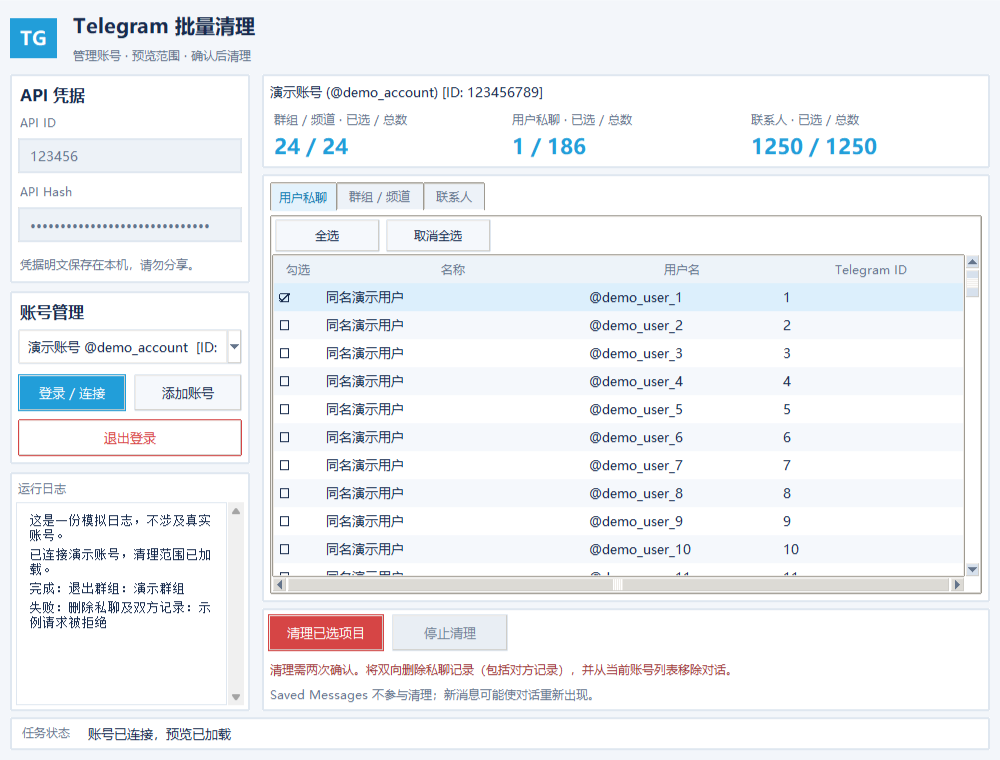
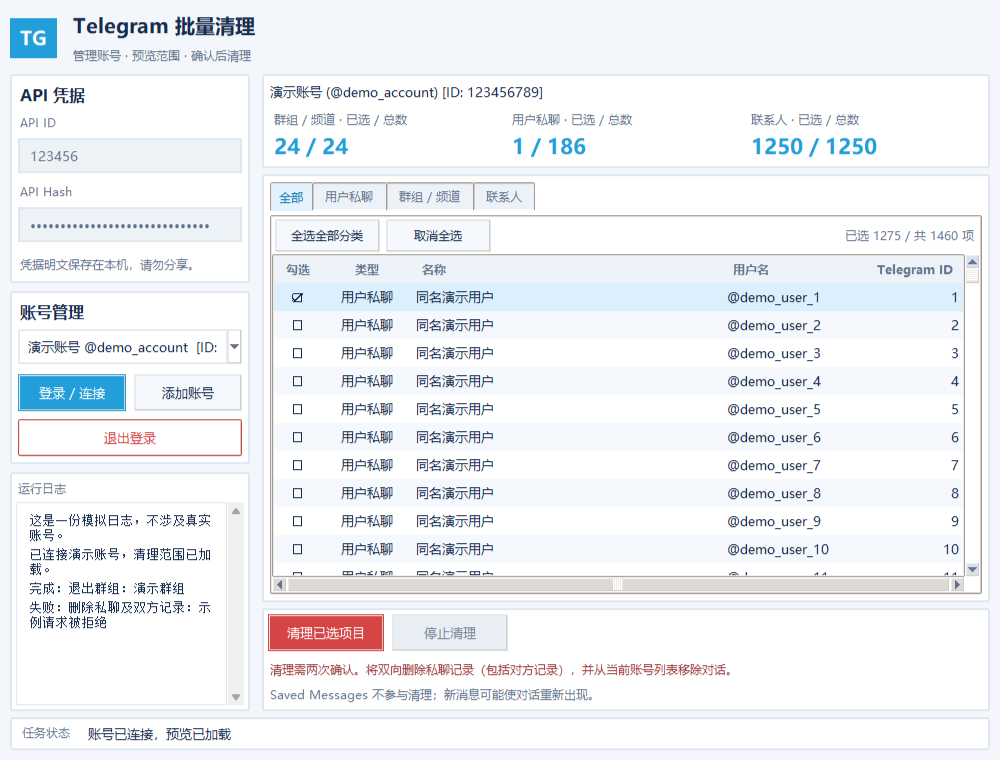
Add unified cleanup tab with synchronized selection

diff --git a/tg_cleanup.py b/tg_cleanup.py
@@ -191,7 +191,7 @@ class CleanupApp:
         style.configure("TNotebook.Tab", background="#EDF2F8", foreground=c["muted"], padding=(10, 3), font=self.fonts["small"], borderwidth=0)
         style.map("TNotebook.Tab", background=[("selected", "#E3F2FC"), ("active", "#EAF0F7")], foreground=[("selected", "#1379AD"), ("active", c["text"])])
         style.configure("Treeview", background=c["surface"], fieldbackground=c["surface"], foreground=c["text"], font=self.fonts["body"], rowheight=int(28 * self.ui_scale), borderwidth=0)
-        style.configure("Treeview.Heading", background="#EDF3F9", foreground=c["muted"], font=self.fonts["small"], padding=(8, 3), relief="flat")
+        style.configure("Treeview.Heading", background="#EDF3F9", foreground=c["muted"], font=(*self.fonts["small"], "bold"), padding=(8, 3), relief="flat")
         style.map("Treeview", background=[("selected", "#DCEFFC")], foreground=[("disabled", c["muted"]), ("selected", c["text"])])
         style.map("Treeview.Heading", background=[("active", "#E3EDF7")])
         style.configure("Horizontal.TScrollbar", background="#D7E1ED", troughcolor=c["surface"], bordercolor=c["surface"], arrowcolor=c["muted"])
@@ -383,25 +383,34 @@ class CleanupApp:
         selection.grid(row=1, column=0, sticky="nsew", pady=(0, 6))
         selection.columnconfigure(0, weight=1)
         selection.rowconfigure(0, weight=1)
-        notebook = ttk.Notebook(selection)
+        self.selection_notebook = notebook = ttk.Notebook(selection)
         notebook.grid(row=0, column=0, sticky="nsew")
         self.selection_trees = {}
         self.selection_buttons = []
-        for category, caption in (("private", "用户私聊"), ("groups", "群组 / 频道"), ("contacts", "联系人")):
+        self.selection_counts = {}
+        for category, caption in (("all", "全部"), ("private", "用户私聊"), ("groups", "群组 / 频道"), ("contacts", "联系人")):
             page = ttk.Frame(notebook, style="Surface.TFrame")
             notebook.add(page, text=caption)
             page.columnconfigure(0, weight=1)
             page.rowconfigure(1, weight=1)
             toolbar = ttk.Frame(page, style="Surface.TFrame")
             toolbar.grid(row=0, column=0, columnspan=2, sticky="ew")
-            for label, checked in (("全选", True), ("取消全选", False)):
+            for label, checked in (("全选全部分类" if category == "all" else "全选本分类", True), ("取消全选", False)):
                 button = ttk.Button(toolbar, text=label, style="Secondary.TButton", command=lambda c=category, v=checked: self._select_category(c, v))
                 button.pack(side="left", padx=3, pady=2)
                 self.selection_buttons.append(button)
-            tree = ttk.Treeview(page, columns=("checked", "name", "username", "id"), show="headings", height=1, selectmode="browse")
-            for column, title, width in (("checked", "勾选", 48), ("name", "名称", 190), ("username", "用户名", 120), ("id", "Telegram ID", 110)):
-                tree.heading(column, text=title)
-                tree.column(column, width=width, minwidth=width if column == "checked" else 60, stretch=column != "checked")
+            count = tk.StringVar(value="已选 0 / 共 0 项")
+            self.selection_counts[category] = count
+            ttk.Label(toolbar, textvariable=count, style="Muted.TLabel").pack(side="right", padx=4)
+            columns = ("checked", "type", "name", "username", "id") if category == "all" else ("checked", "name", "username", "id")
+            tree = ttk.Treeview(page, columns=columns, show="headings", height=1, selectmode="browse")
+            definitions = (("checked", "勾选", 48), ("type", "类型", 90), ("name", "名称", 190), ("username", "用户名", 120), ("id", "Telegram ID", 120))
+            for column, title, width in definitions:
+                if column not in columns:
+                    continue
+                anchor = "center" if column in ("checked", "type") else "e" if column == "id" else "w"
+                tree.heading(column, text=title, anchor=anchor)
+                tree.column(column, width=width, minwidth=width, stretch=column == "name", anchor=anchor)
             tree.tag_configure("even", background="#FFFFFF")
             tree.tag_configure("odd", background="#F5F8FC")
             tree.grid(row=1, column=0, sticky="nsew")
@@ -750,6 +759,8 @@ class CleanupApp:
     def _reset_selection(self):
         self.selected_items = set()
         self.selection_rows = {}
+        for variable in getattr(self, "selection_counts", {}).values():
+            variable.set("已选 0 / 共 0 项")
         for tree in getattr(self, "selection_trees", {}).values():
             tree.delete(*tree.get_children())
 
@@ -768,7 +779,12 @@ class CleanupApp:
                 self.selection_rows[key] = item
                 name = getattr(entity, "title", None) or " ".join(v for v in (getattr(entity, "first_name", None), getattr(entity, "last_name", None)) if v) or str(entity.id)
                 tree = self.selection_trees[category]
-                tree.insert("", "end", iid=str(peer_id), tags=("odd" if len(tree.get_children()) % 2 else "even",), values=("☐", name, "@" + entity.username if getattr(entity, "username", None) else "—", str(peer_id)))
+                values = ("☐", name, "@" + entity.username if getattr(entity, "username", None) else "—", str(peer_id))
+                tree.insert("", "end", iid=str(peer_id), tags=("odd" if len(tree.get_children()) % 2 else "even",), values=values)
+                all_tree = self.selection_trees.get("all")
+                if all_tree is not None:
+                    kind = {"private": "用户私聊", "groups": "群组/频道", "contacts": "联系人"}[category]
+                    all_tree.insert("", "end", iid=f"{category}:{peer_id}", tags=("odd" if len(all_tree.get_children()) % 2 else "even",), values=(values[0], kind, *values[1:]))
         self._refresh_selection()
 
     def _refresh_selection(self):
@@ -779,7 +795,21 @@ class CleanupApp:
             if tree:
                 for key in keys:
                     tree.set(str(key[1]), "checked", "☑" if key in self.selected_items else "☐")
+        all_tree = self.selection_trees.get("all")
+        if all_tree is not None:
+            for key in self.selection_rows:
+                all_tree.set(f"{key[0]}:{key[1]}", "checked", "☑" if key in self.selected_items else "☐")
+        for category, variable in getattr(self, "selection_counts", {}).items():
+            keys = {key for key in self.selection_rows if category == "all" or key[0] == category}
+            variable.set(f"已选 {len(keys & self.selected_items)} / 共 {len(keys)} 项")
         self._update_execute_state()
+
+    @staticmethod
+    def _selection_row_key(category, row):
+        if category == "all":
+            kind, peer_id = row.split(":", 1)
+            return kind, int(peer_id)
+        return category, int(row)
 
     def _toggle_selection(self, key):
         if not self._selection_available() or key not in self.selection_rows:
@@ -793,7 +823,7 @@ class CleanupApp:
     def _select_category(self, category, checked):
         if not self._selection_available():
             return
-        keys = {key for key in self.selection_rows if key[0] == category}
+        keys = {key for key in self.selection_rows if category == "all" or key[0] == category}
         if checked:
             self.selected_items.update(keys)
         else:
@@ -806,13 +836,13 @@ class CleanupApp:
         if row and tree.identify_region(event.x, event.y) == "cell" and tree.identify_column(event.x) == "#1":
             tree.focus(row)
             tree.selection_set(row)
-            self._toggle_selection((category, int(row)))
+            self._toggle_selection(self._selection_row_key(category, row))
             return "break"
 
     def _selection_space(self, category):
         row = self.selection_trees[category].focus()
         if row:
-            self._toggle_selection((category, int(row)))
+            self._toggle_selection(self._selection_row_key(category, row))
         return "break"
 
     def _selection_snapshot(self):

diff --git a/tests/preview_ui.py b/tests/preview_ui.py
@@ -118,6 +118,8 @@ def preview(output_dir=None):
                 app._select_category("groups", True)
                 assert app.dialog_count.get() == "1 / 186"
                 root.update()
+                app.selection_notebook.select(1)
+                root.update()
                 tree = app.selection_trees["private"]
                 box = tree.bbox("1", "checked")
                 assert box
@@ -128,6 +130,29 @@ def preview(output_dir=None):
                 app._selection_space("private")
                 assert ("private", 1) in app.selected_items
 
+                all_tree = app.selection_trees["all"]
+                assert len(all_tree.get_children()) == 186 + 24 + 1250
+                assert all_tree.set("private:1", "checked") == "☑"
+                assert all_tree.set("contacts:1", "checked") == "☑"
+                app.selection_notebook.select(0)
+                root.update()
+                root.update()
+                box = all_tree.bbox("private:1", "checked")
+                assert box and box[1] + box[3] <= all_tree.winfo_height()
+                x, y, w, h = box
+                app._selection_click("all", SimpleNamespace(x=x + w // 2, y=y + h // 2))
+                assert app.selection_trees["private"].set("1", "checked") == "☐"
+                app._selection_space("all")
+                assert app.selection_trees["private"].set("1", "checked") == "☑"
+                all_tree.focus("private:1")
+                app._selection_space("all")
+                assert app.selection_trees["private"].set("1", "checked") == "☐"
+                app._selection_space("all")
+                for index in range(4):
+                    app.selection_notebook.select(index)
+                    root.update()
+                    assert app.selection_trees[("all", "private", "groups", "contacts")[index]].winfo_ismapped()
+                app.selection_notebook.select(0)
                 for tree in app.selection_trees.values():
                     tree.yview_moveto(1)
                     tree.yview_moveto(0)
@@ -191,14 +216,14 @@ def preview(output_dir=None):
             for tree in app.selection_trees.values():
                 if tree.winfo_ismapped():
                     assert tree.winfo_height() >= int(28 * app.ui_scale) + 24
-            tree = app.selection_trees["private"]
+            tree = app.selection_trees["all"]
             assert app.log.winfo_rootx() < tree.winfo_rootx()
             assert tree.winfo_height() > app.log.winfo_height() if height <= 760 else tree.winfo_height() > 200
             assert abs((app.log.master.master.winfo_rooty() + app.log.master.master.winfo_height()) - (app.scope_note.master.winfo_rooty() + app.scope_note.master.winfo_height())) <= 2
             log_view = app.log.yview()
-            app.selection_trees["private"].yview_moveto(1)
+            tree.yview_moveto(1)
             root.update()
-            app.selection_trees["private"].yview_moveto(0)
+            tree.yview_moveto(0)
             assert app.log.yview() == log_view
             tree_view = tree.yview()
             app.log.yview_moveto(1)

diff --git a/tests/test_cleanup.py b/tests/test_cleanup.py
@@ -141,6 +141,35 @@ class SelectionTests(unittest.IsolatedAsyncioTestCase):
         app._toggle_selection(("contacts", 2))
         self.assertFalse(app.selected_items)
 
+    async def test_all_selection_shared_and_snapshot_has_no_duplicates(self):
+        app = self.selected_app()
+        app._select_category("all", True)
+        self.assertEqual(app.selected_items, set(app.selection_rows))
+        snapshot = app._selection_snapshot()
+        self.assertEqual(len(snapshot.private_users), 2)
+        self.assertEqual(len(snapshot.contacts), 1)
+        app._toggle_selection(app._selection_row_key("all", "private:2"))
+        self.assertNotIn(("private", 2), app.selected_items)
+        self.assertIn(("contacts", 2), app.selected_items)
+        app._select_category("private", True)
+        self.assertIn(("private", 2), app.selected_items)
+        app._select_category("all", False)
+        self.assertFalse(app.selected_items)
+
+    async def test_all_snapshot_executes_each_operation_once(self):
+        from telethon.tl.functions.contacts import DeleteContactsRequest
+        app = self.selected_app()
+        client = FakeClient()
+        app.client = client
+        app.clients = {client}
+        app._select_category("all", True)
+        app._select_category("private", True)
+        snapshot = app._selection_snapshot()
+        result = await app._cleanup(snapshot)
+        self.assertEqual(len(result["success"]), 3)
+        self.assertEqual([r.peer.id for r in client.requests if isinstance(r, DeleteHistoryRequest)], [2, 3])
+        self.assertEqual(len([r for r in client.requests if isinstance(r, DeleteContactsRequest)]), 1)
+
     async def test_invalid_preview_busy_or_other_account_cannot_select(self):
         app = self.selected_app()
         for name in ("busy", "preview_loaded", "connected"):
@@ -181,7 +210,7 @@ class SelectionTests(unittest.IsolatedAsyncioTestCase):
                       (SimpleNamespace(entity=Channel(id=7, title="Same", photo=None, date=None)), "频道")]
         app.private_users = [dialog(2), dialog(3), dialog(1, is_self=True)]
         app.contacts = [User(id=2, first_name="Test")]
-        app.selection_trees = {category: Mock() for category in ("groups", "private", "contacts")}
+        app.selection_trees = {category: Mock() for category in ("all", "groups", "private", "contacts")}
         for tree in app.selection_trees.values():
             tree.get_children.return_value = ()
         app._populate_selection()
